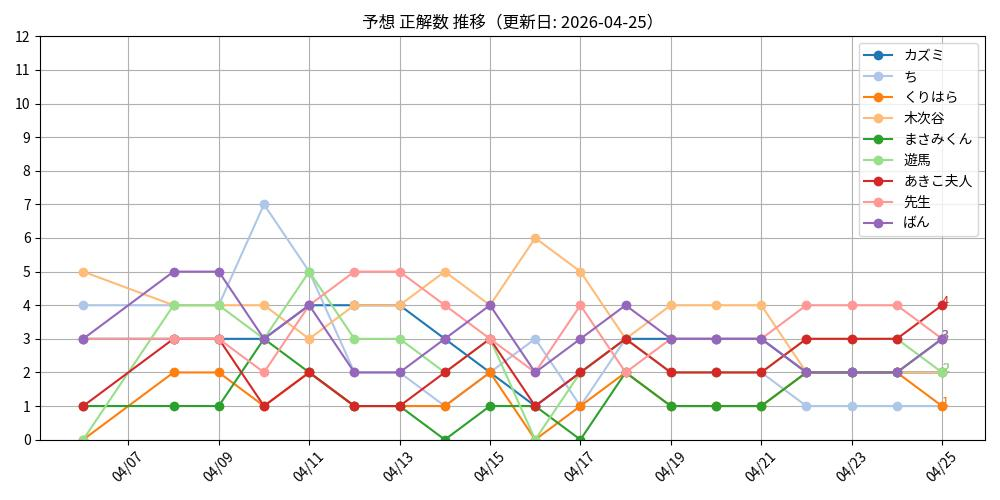
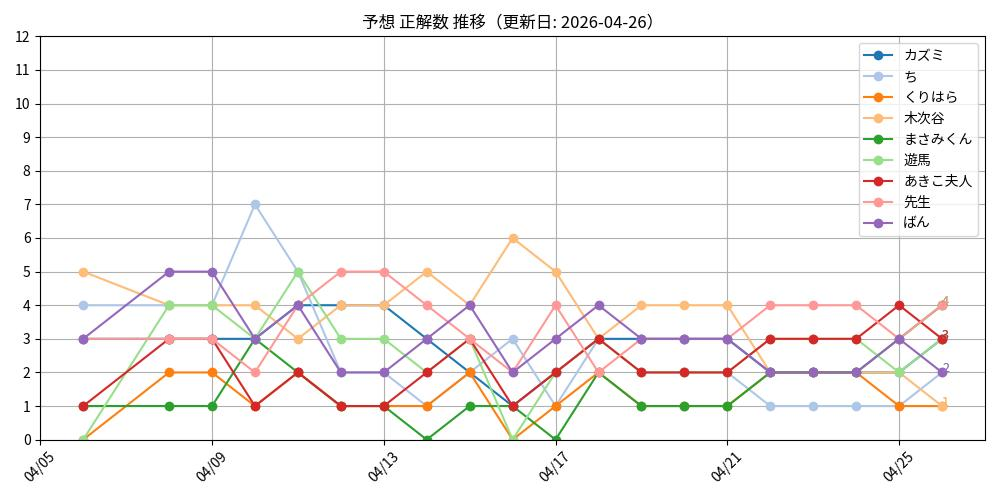
Daily ranking update

diff --git a/README.md b/README.md
@@ -1,6 +1,6 @@
 # 📊 プロ野球順位予想
 
-最終更新日: 2026-04-25
+最終更新日: 2026-04-26
 
 ## 最新順位表
 ![最新順位表](ranking_table.jpeg)
